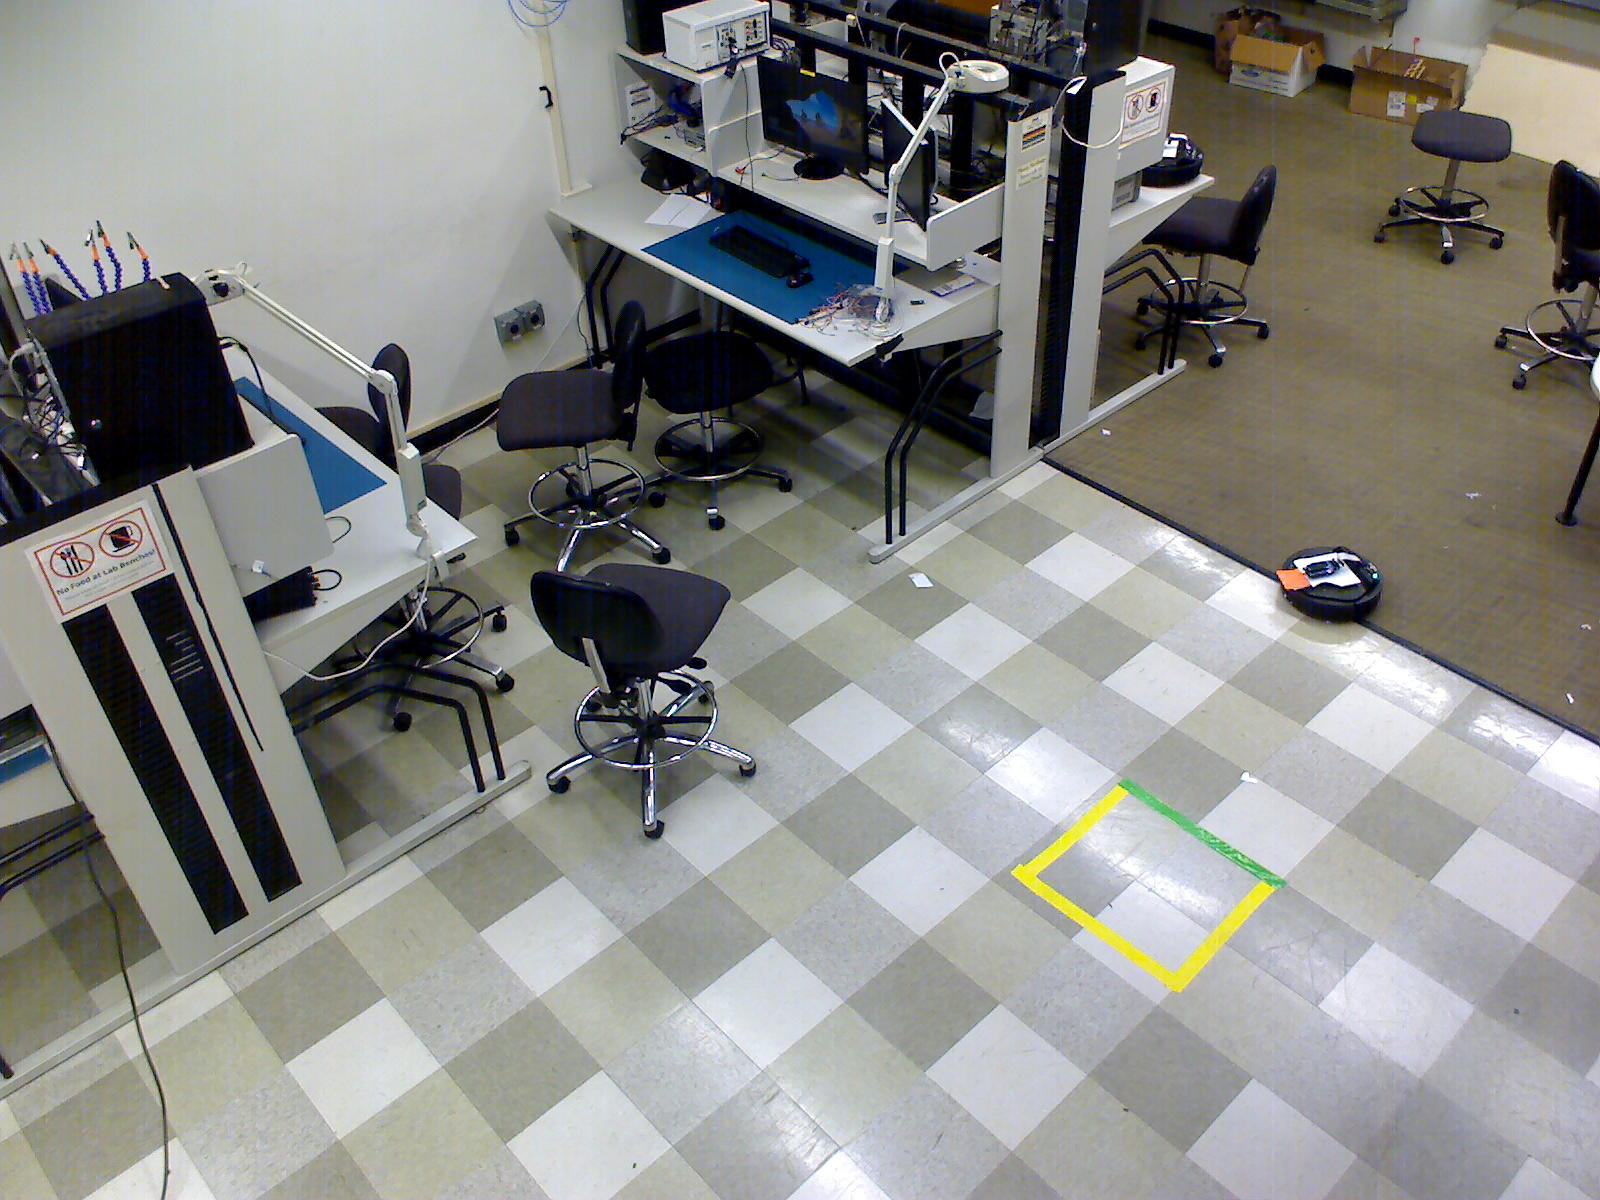
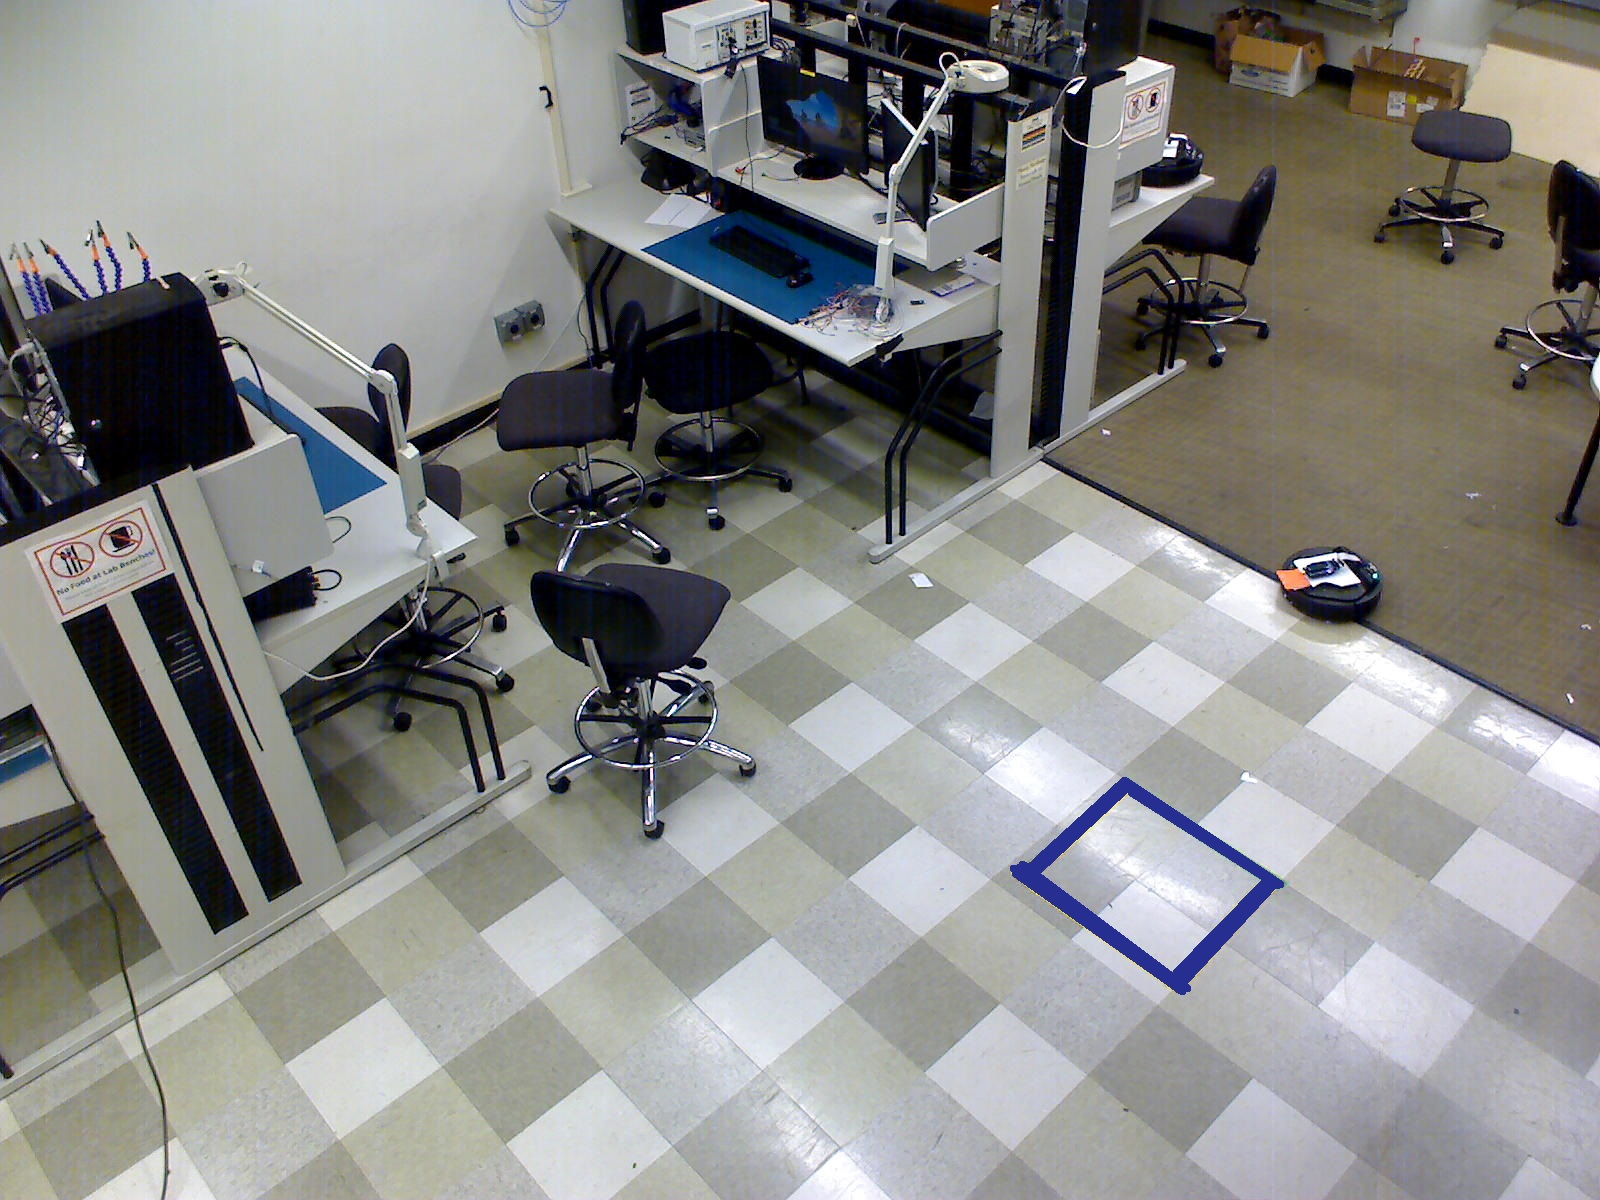
squares detected and problems left for kobuki detection

diff --git a/computer vision/third_trial_camera/image_samples_4/detection.py b/computer vision/third_trial_camera/image_samples_4/detection.py
@@ -1,0 +1,74 @@
+import numpy as np
+import cv2 as cv
+import array
+# https://opencv-python-tutroals.readthedocs.io/en/latest/py_tutorials/py_imgproc/py_contours/py_contours_hierarchy/py_contours_hierarchy.html
+
+img = cv.imread('Image24.jpg')
+edges1 = cv.Canny(img,75,125)
+
+##
+##circles
+##
+edge = cv.Canny(img,75,100)
+circles = cv.HoughCircles(edge,cv.HOUGH_GRADIENT,1,50,param1=150,param2=30,minRadius=20,maxRadius=50)
+circles = np.uint16(np.around(circles))
+
+circles_found = [];
+for i in circles[0,:]:
+   # draw the outer circle
+   cv.circle(img,(i[0],i[1]),i[2],(0,255,0),2)
+   # draw the center of the circle
+   cv.circle(img,(i[0],i[1]),2,(0,0,255),3)
+
+print(circles[0,:])
+
+##
+##squares
+##
+
+
+#
+
+
+contours,h = cv.findContours(edges1, cv.RETR_LIST, cv.CHAIN_APPROX_SIMPLE)
+edgecolor = [235, 220, 212]
+Squarelist = []
+
+for cnt in contours:
+    approx = cv.approxPolyDP(cnt,0.01*cv.arcLength(cnt,True),True)
+    if len(approx)==4:
+
+        M = cv.moments(cnt)
+        if (M['m00'] > 10000 and M['m00'] < 25000):
+            countedge = 0
+            a, b, c, d = approx
+            e1x, e1y = (a[0][0] + b[0][0])/2, (a[0][1] + b[0][1])/2
+            e2x, e2y = (b[0][0] + c[0][0])/2, (b[0][1] + c[0][1])/2
+            e3x, e3y = (c[0][0] + d[0][0])/2, (c[0][1] + d[0][1])/2
+            e4x, e4y = (d[0][0] + a[0][0])/2, (d[0][1] + a[0][1])/2
+            e1c = img[e1y, e1x]
+            e2c = img[e2y, e2x]
+            e3c = img[e3y, e3x]
+            e4c = img[e4y, e4x]
+            cx = int(M['m10']/M['m00'])
+            cy = int(M['m01']/M['m00'])
+            if(np.sqrt((e1c[0]-edgecolor[0])**2 + (e1c[1]-edgecolor[1])**2 + (e1c[2]-edgecolor[2])**2) < 100):
+                countedge += 1
+            if(np.sqrt((e2c[0]-edgecolor[0])**2 + (e2c[1]-edgecolor[1])**2 + (e2c[2]-edgecolor[2])**2) < 100):
+                countedge += 1
+            if(np.sqrt((e3c[0]-edgecolor[0])**2 + (e3c[1]-edgecolor[1])**2 + (e3c[2]-edgecolor[2])**2) < 100):
+                countedge += 1
+            if(np.sqrt((e4c[0]-edgecolor[0])**2 + (e4c[1]-edgecolor[1])**2 + (e4c[2]-edgecolor[2])**2) < 100):
+                countedge += 1
+            if (countedge >= 2):
+                Squarelist.append([M['m00'], [a, b, c, d], [cx, cy], [e1x, e1y, e1c], [e2x, e2y, e2c], [e3x, e3y, e3c], [e4x, e4y, e4c], [cnt]])
+
+            cv.circle(img, (cx, cy), 20, (255,255,255))
+            print("Shape: Square, Area: %f, Centroid:(%f, %f)" %(M['m00'], cx, cy))
+
+for i in range(len(Squarelist)):
+    print(Squarelist[i][0:7])
+    cv.drawContours(img,Squarelist[i][-1],0,(0,0,255),-1)
+
+
+cv.imwrite('detection_Image24.jpg',img)

diff --git a/computer vision/third_trial_camera/image_samples_4/shape3.py b/computer vision/third_trial_camera/image_samples_4/shape3.py
@@ -1,0 +1,87 @@
+import numpy as np
+import cv2 as cv
+import array
+# https://opencv-python-tutroals.readthedocs.io/en/latest/py_tutorials/py_imgproc/py_contours/py_contours_hierarchy/py_contours_hierarchy.html
+
+img = cv.imread('Image21.jpg')
+gray = cv.cvtColor(img, cv.COLOR_BGR2GRAY)
+
+##
+##circles
+##
+edge = cv.Canny(img,75,100)
+circles = cv.HoughCircles(gray,cv.HOUGH_GRADIENT,1,50,param1=150,param2=30,minRadius=20,maxRadius=50)
+circles = np.uint16(np.around(circles))
+
+circles_found = [];
+for i in circles[0,:]:
+   # draw the outer circle
+   cv.circle(img,(i[0],i[1]),i[2],(0,255,0),2)
+   # draw the center of the circle
+   cv.circle(img,(i[0],i[1]),2,(0,0,255),3)
+
+print(circles[0,:])
+
+##
+##squares
+##
+
+
+#
+# ret,thresh = cv.threshold(gray,127,255,1)
+#
+# contours,h = cv.findContours(thresh, cv.RETR_LIST, cv.CHAIN_APPROX_SIMPLE)
+# Squarelist = []
+#
+# for cnt in contours:
+#     approx = cv.approxPolyDP(cnt,0.01*cv.arcLength(cnt,True),True)
+#     if len(approx)==4:
+#
+#         M = cv.moments(cnt)
+#         if (M['m00'] > 1000 and M['m00'] < 1000000):
+#             cx = int(M['m10']/M['m00'])
+#             cy = int(M['m01']/M['m00'])
+#             Squarelist.append([M['m00'], cx, cy])
+#
+#             cv.drawContours(img,[cnt],0,(0,0,255),-1)
+#             print("Shape: Square, Area: %f, Centroid:(%f, %f)" %(M['m00'], cx, cy))
+    # elif len(approx)==5:
+    #     print "pentagon"
+    #     cv.drawContours(img,[cnt],0,255,-1)
+    # elif len(approx)==3:
+    #     print "triangle"
+    #     cv.drawContours(img,[cnt],0,(0,255,0),-1)
+    # elif len(approx) == 9:
+    #     print "half-circle"
+    #     cv.drawContours(img,[cnt],0,(255,255,0),-1)
+
+    # elif len(approx) > 15:
+    #     M = cv.moments(cnt)
+    #     if (M['m00'] > 100):
+    #         cx = int(M['m10']/M['m00'])
+    #         cy = int(M['m01']/M['m00'])
+    #
+    #         cv.drawContours(img,[cnt],0,(0,0,255),-1)
+    #         print("Shape: Circle, Area: %f, Centroid:(%f, %f)" %(M['m00'], cx, cy))
+
+##
+##Still needs ti be fixed whether the square will be detected once or twice?
+##
+# Square = []
+# for i in range(len(Squarelist)):
+#     for j in range(i+1, len(Squarelist)):
+#         a1, x1, y1 = Squarelist[i]
+#         a2, x2, y2 = Squarelist[j]
+#         ad = np.abs(a1-a2)/a2
+#         cd = np.sqrt((x1-x2)**2 + (y1 -y2)**2)
+#         if (ad < 0.21 and cd < 10):
+#             ax = (x1 + x2)/2
+#             ay = (y1 + y2)/2
+#             cv.circle(img, (ax, ay), 20, (255,255,255))
+#             Square.append([ax, ay, x1, y1, x2, y2])
+# print(Square)
+#
+#
+
+
+cv.imwrite('detection_Image21.jpg',img)

diff --git a/computer vision/third_trial_camera/image_samples_4/canny.py b/computer vision/third_trial_camera/image_samples_4/canny.py
@@ -1,0 +1,7 @@
+import numpy as np
+import cv2 as cv
+# from matplotlib import pyplot as plt
+
+img1 = cv.imread('Image24.jpg',0)
+edges1 = cv.Canny(img1,75,125)
+cv.imwrite('result_Image24.jpg', edges1)
